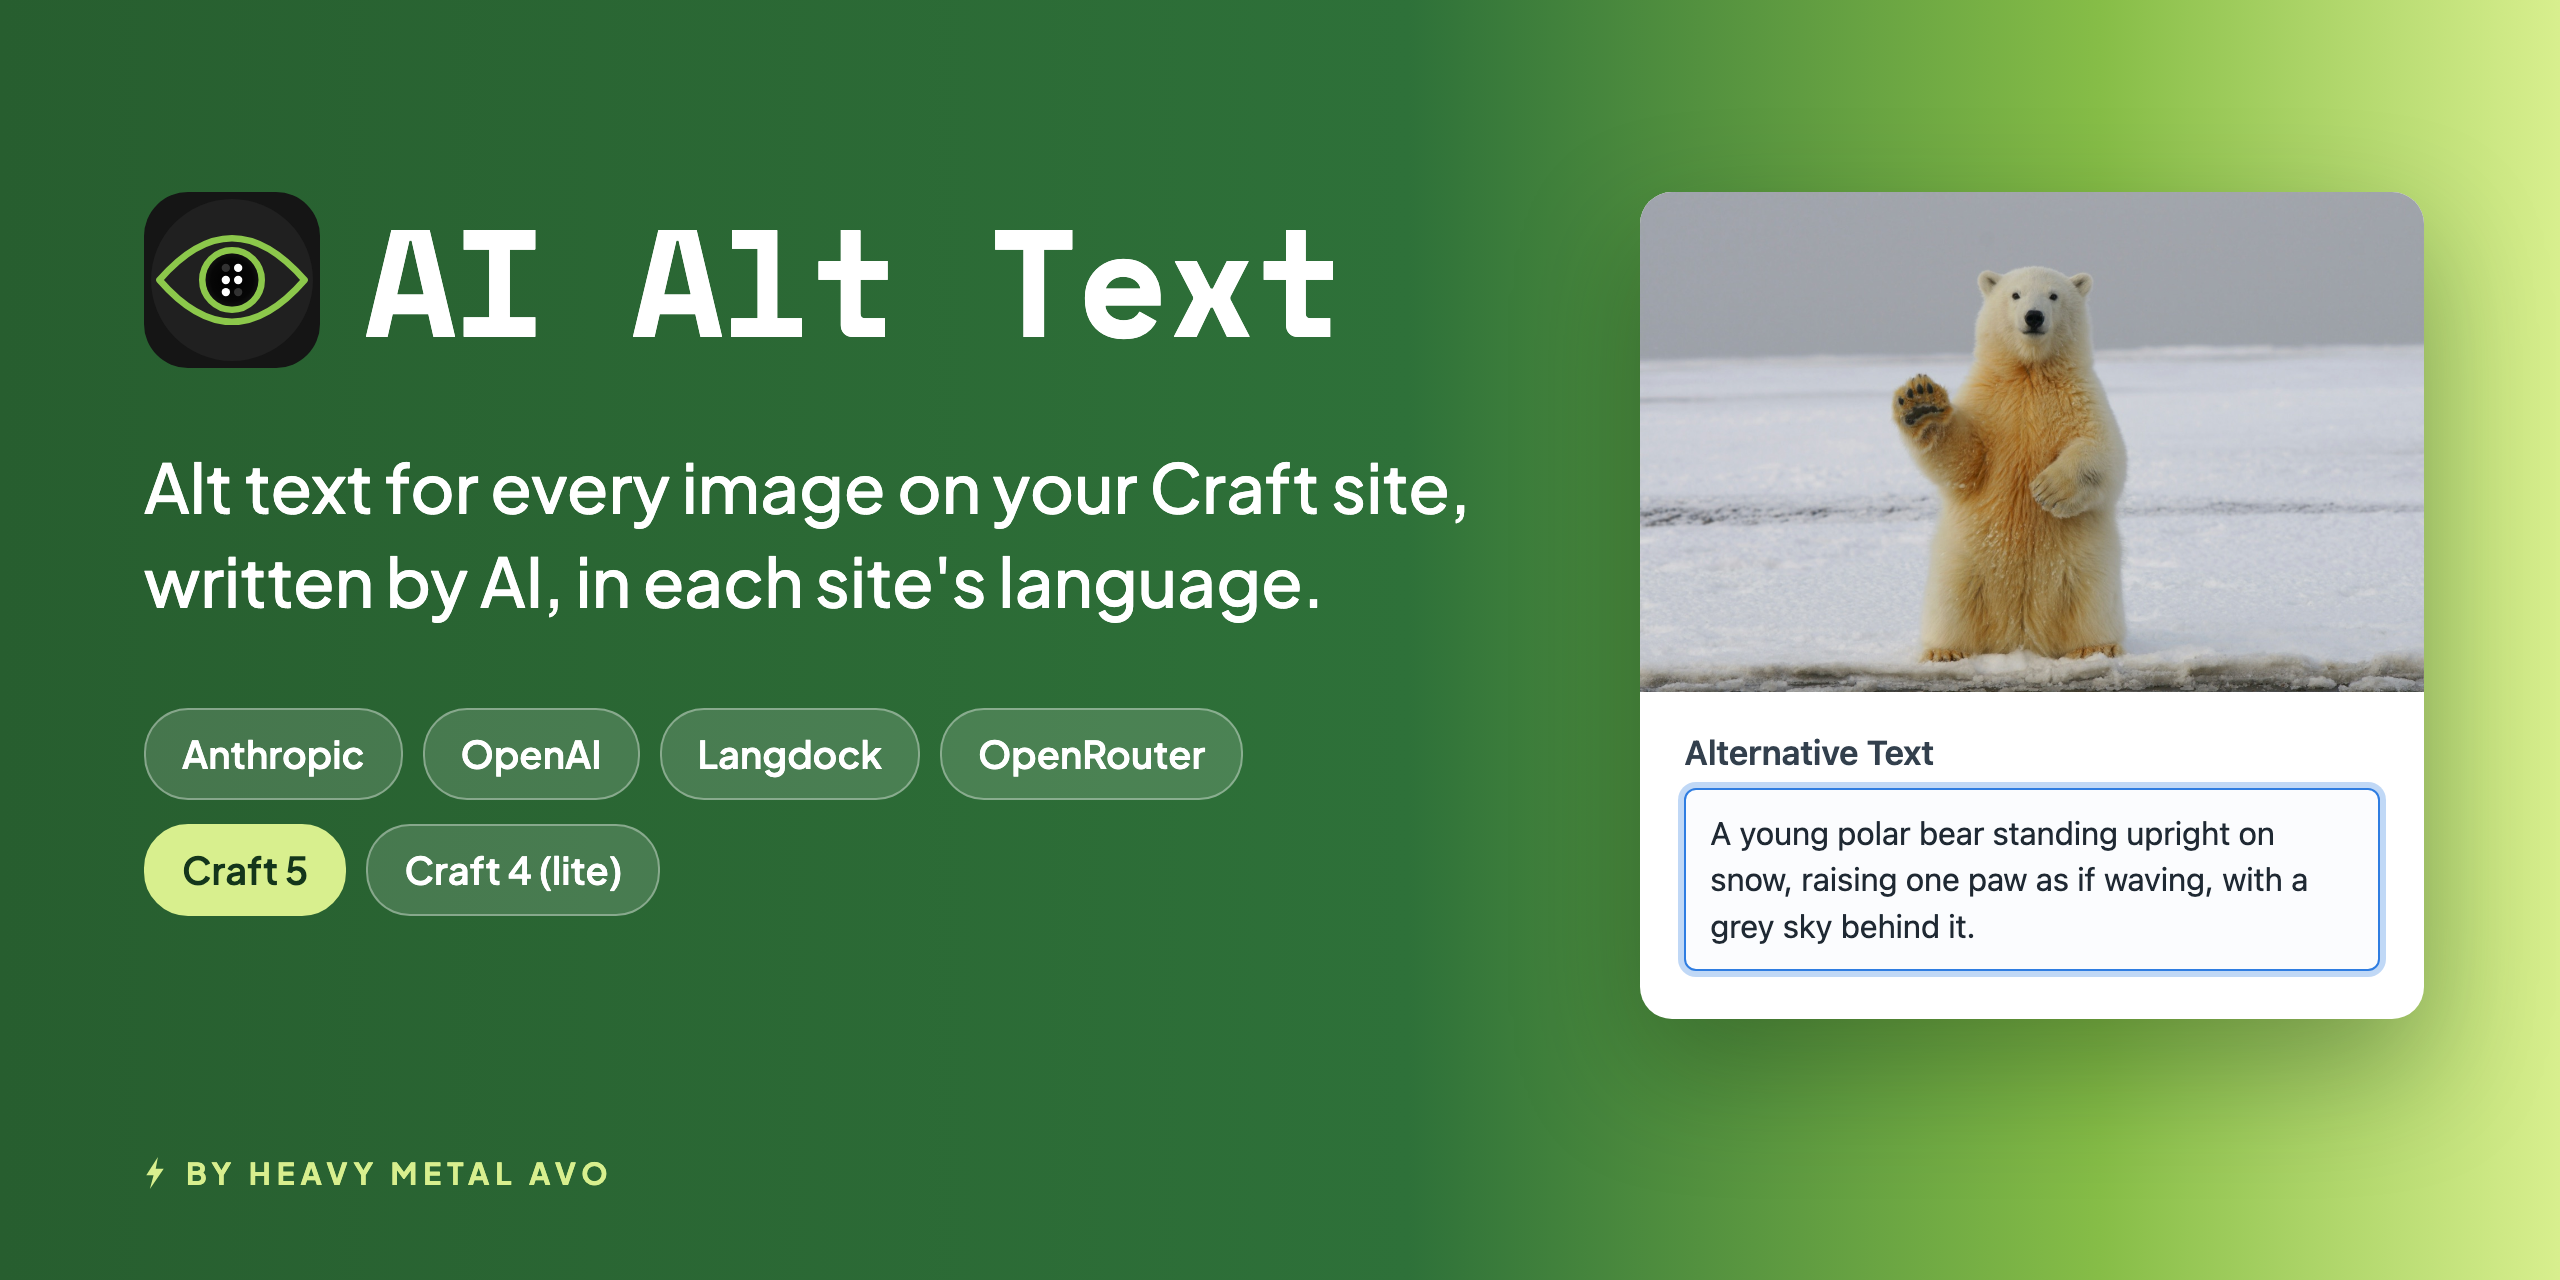
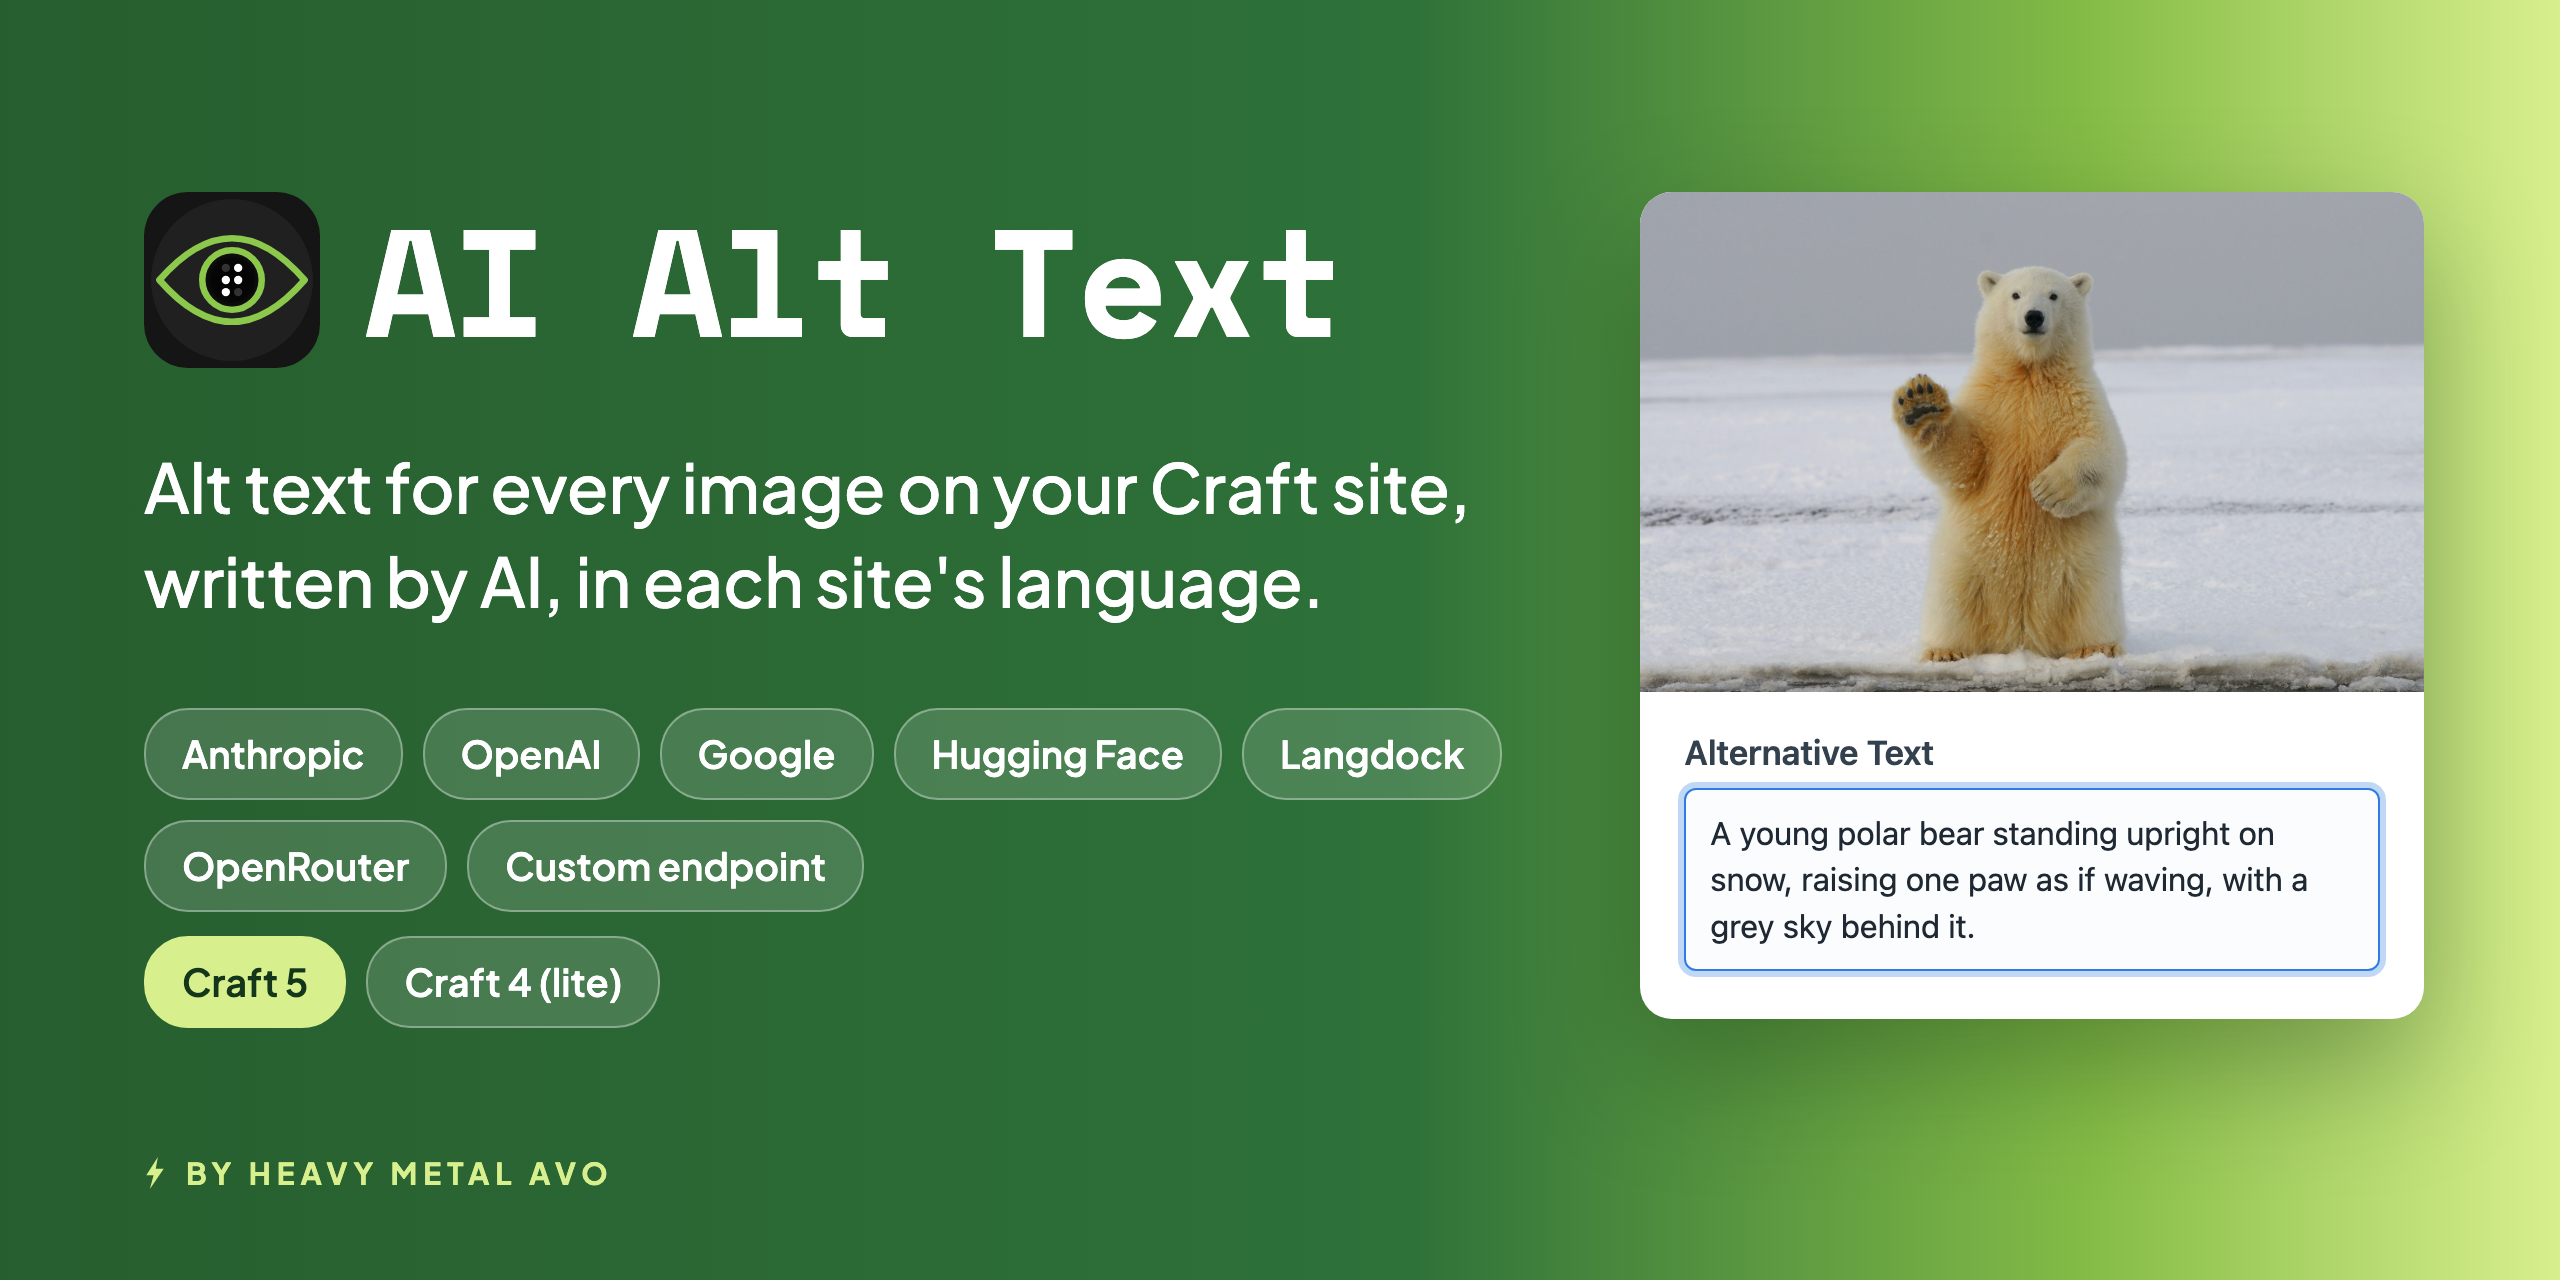
docs: update the README and docs images for the 5.4 and 5.5 features
Adds Google, Hugging Face and custom endpoint providers, WebP conversion,
animation frames, bulk generation by volume or folder, excluded assets and
rate limit retries to the banner, how it works, image preparation and
where to generate images.

Changed region(s): [[0.0312, 0.5312, 0.5938, 0.8125]]

diff --git a/docs/images.md b/docs/images.md
@@ -4,7 +4,7 @@
 
 How the plugin prepares images for each AI provider, and the limits to know about.
 
-![How images are prepared. Your image, any JPG, PNG, WebP, GIF, SVG, AVIF, HEIC or HEIF asset on a public or private volume, is converted: SVG, AVIF, HEIC and HEIF are converted, animated GIFs use their first frame, and transparent areas are filled white, or grey for light artwork. It's scaled down if it's over the provider's limits, using your image detail setting. It's sent as a URL, or as base64 for SVGs, animated GIFs, transparent images, private volumes, OpenRouter and Langdock's Anthropic models. A vision model, through Anthropic, OpenAI, Langdock or OpenRouter, describes it and returns the alt text. Opaque PNG, JPG, WebP and still GIF images within the limits are sent unchanged, and filled images tell the model their background is transparent.](images/image-preparation.png)
+![How images are prepared. Your image, any JPG, PNG, WebP, GIF, SVG, AVIF, HEIC or HEIF asset on a public or private volume, is converted: SVG, AVIF, HEIC and HEIF become WebPs, and transparent areas are filled white, or grey for light artwork. It's scaled down if it's over the provider's limits, using your image detail setting. It's sent as a URL, or as base64 for SVGs, animations, transparent images and private volumes, and some providers always get base64. A vision model, through Anthropic, OpenAI, Google, Hugging Face, Langdock, OpenRouter or your own endpoint, returns the alt text. Animated GIFs and WebPs are sent as 3 frames by default, set by Animation frames. Opaque PNG, JPG, WebP and still GIF images within the limits are sent unchanged, and filled images tell the model their background is transparent.](images/image-preparation.png)
 
 ## What AI providers accept
 

diff --git a/docs/getting-started.md b/docs/getting-started.md
@@ -63,7 +63,7 @@ To add this field:
     5. From the command line, e.g. `./craft ai-alt-text/generate/missing`, see the [console commands](console-commands.md)
 5. A single asset, selected in the **Assets** manager or on its own page, is generated straight away. Multiple selected assets, the bulk actions utility, the command line (apart from `single`), new uploads and replaced files, and the other sites when **Save translated results for each site** is enabled are queued as jobs instead
 
-![Where to generate alt text: on an asset's page, from its action menu; for selected assets in Assets, from the actions menu (the cog); from an asset's menu in an Assets field; from the bulk actions utility in Utilities, for all sites or one site at a time; from the command line, with ai-alt-text/generate/stats, missing or single; or automatically, with the "Generate for new image assets (on upload or file replacement)" setting turned on](images/where-to-generate.png)
+![Where to generate alt text: on an asset's page, from its action menu; for selected assets in Assets, from the actions menu (the cog); from an asset's menu in an Assets field; from the bulk actions utility in Utilities, for all sites, one site, one volume or a folder, with each site's alt text shown as a bar of images with alt text, missing it and excluded; from the command line, with ai-alt-text/generate/stats, missing (optionally for one volume or folder) or single; or automatically, with the "Generate for new image assets (on upload or file replacement)" setting turned on](images/where-to-generate.png)
 
 Example twig:
 
